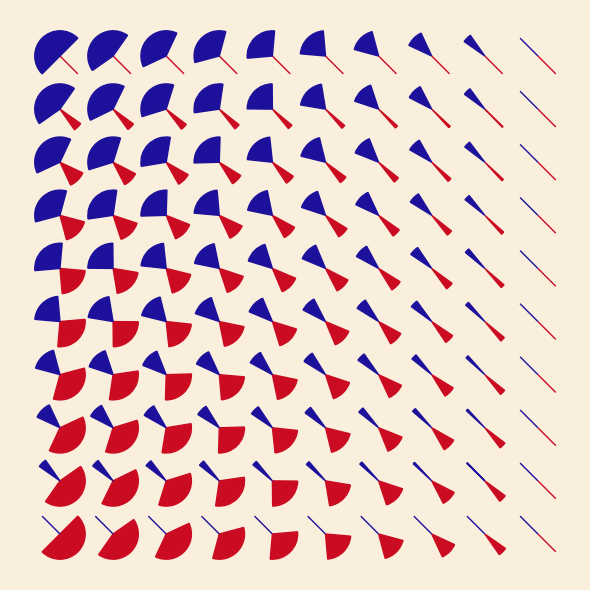
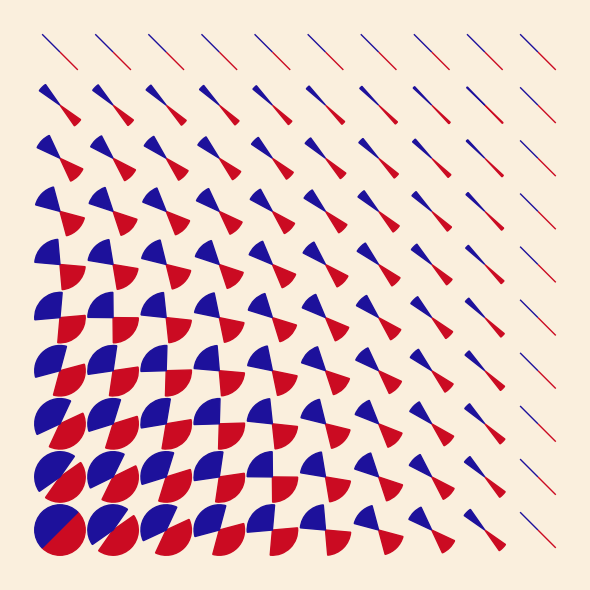
Le Parc Mutation of Forms: further isolate some variations

diff --git a/julio-le-parc-replications/README.md b/julio-le-parc-replications/README.md
@@ -38,15 +38,14 @@ Outputs resulting from...
 <img src="img/mutation_of_forms/variations_on_angular_coverage/mutation_of_forms_3.png" width="400" height="400">  |  <img src="img/mutation_of_forms/variations_on_angular_coverage/mutation_of_forms_4.png" width="400" height="400">
 <img src="img/mutation_of_forms/variations_on_angular_coverage/mutation_of_forms_5.png" width="400" height="400">  |  <img src="img/mutation_of_forms/variations_on_angular_coverage/mutation_of_forms_6.png" width="400" height="400">
 <img src="img/mutation_of_forms/variations_on_angular_coverage/mutation_of_forms_7.png" width="400" height="400">  |  <img src="img/mutation_of_forms/variations_on_angular_coverage/mutation_of_forms_8.png" width="400" height="400">
-<img src="img/mutation_of_forms/variations_on_angular_coverage/mutation_of_forms_9.png" width="400" height="400">  |  -
 
 
-2. Changing the size of the grid from 10 to 20, 40 and 60:
+2. Changing the size of the grid from 10 to 5, 20, 40 and 60:
 
 |            |    |
 :-------------------------:|:-------------------------:
-<img src="img/mutation_of_forms/variations_in_grid/mutation_of_forms_10.png" width="400" height="400">  |  <img src="img/mutation_of_forms/variations_in_grid/mutation_of_forms_11.png" width="400" height="400">
-<img src="img/mutation_of_forms/variations_in_grid/mutation_of_forms_12.png" width="400" height="400">  |  -
+<img src="img/mutation_of_forms/variations_in_grid/mutation_of_forms_9.png" width="400" height="400">  |  <img src="img/mutation_of_forms/variations_in_grid/mutation_of_forms_10.png" width="400" height="400">
+<img src="img/mutation_of_forms/variations_in_grid/mutation_of_forms_11.png" width="400" height="400">  |  <img src="img/mutation_of_forms/variations_in_grid/mutation_of_forms_12.png" width="400" height="400">
 
 
 3. Changing the style of the matplotlib patches plotted, from regular
@@ -56,3 +55,9 @@ with Le Parc's style):
 |            |    |
 :-------------------------:|:-------------------------:
 <img src="img/mutation_of_forms/variations_in_patch_style/mutation_of_forms_13.png" width="400" height="400">  |  <img src="img/mutation_of_forms/variations_in_patch_style/mutation_of_forms_14.png" width="400" height="400">
+
+4. Hiding either the red or the blue wedges:
+
+|            |    |
+:-------------------------:|:-------------------------:
+<img src="img/mutation_of_forms/variations_wo_one_colour/mutation_of_forms_15.png" width="400" height="400">  |  <img src="img/mutation_of_forms/variations_wo_one_colour/mutation_of_forms_16.png" width="400" height="400">
